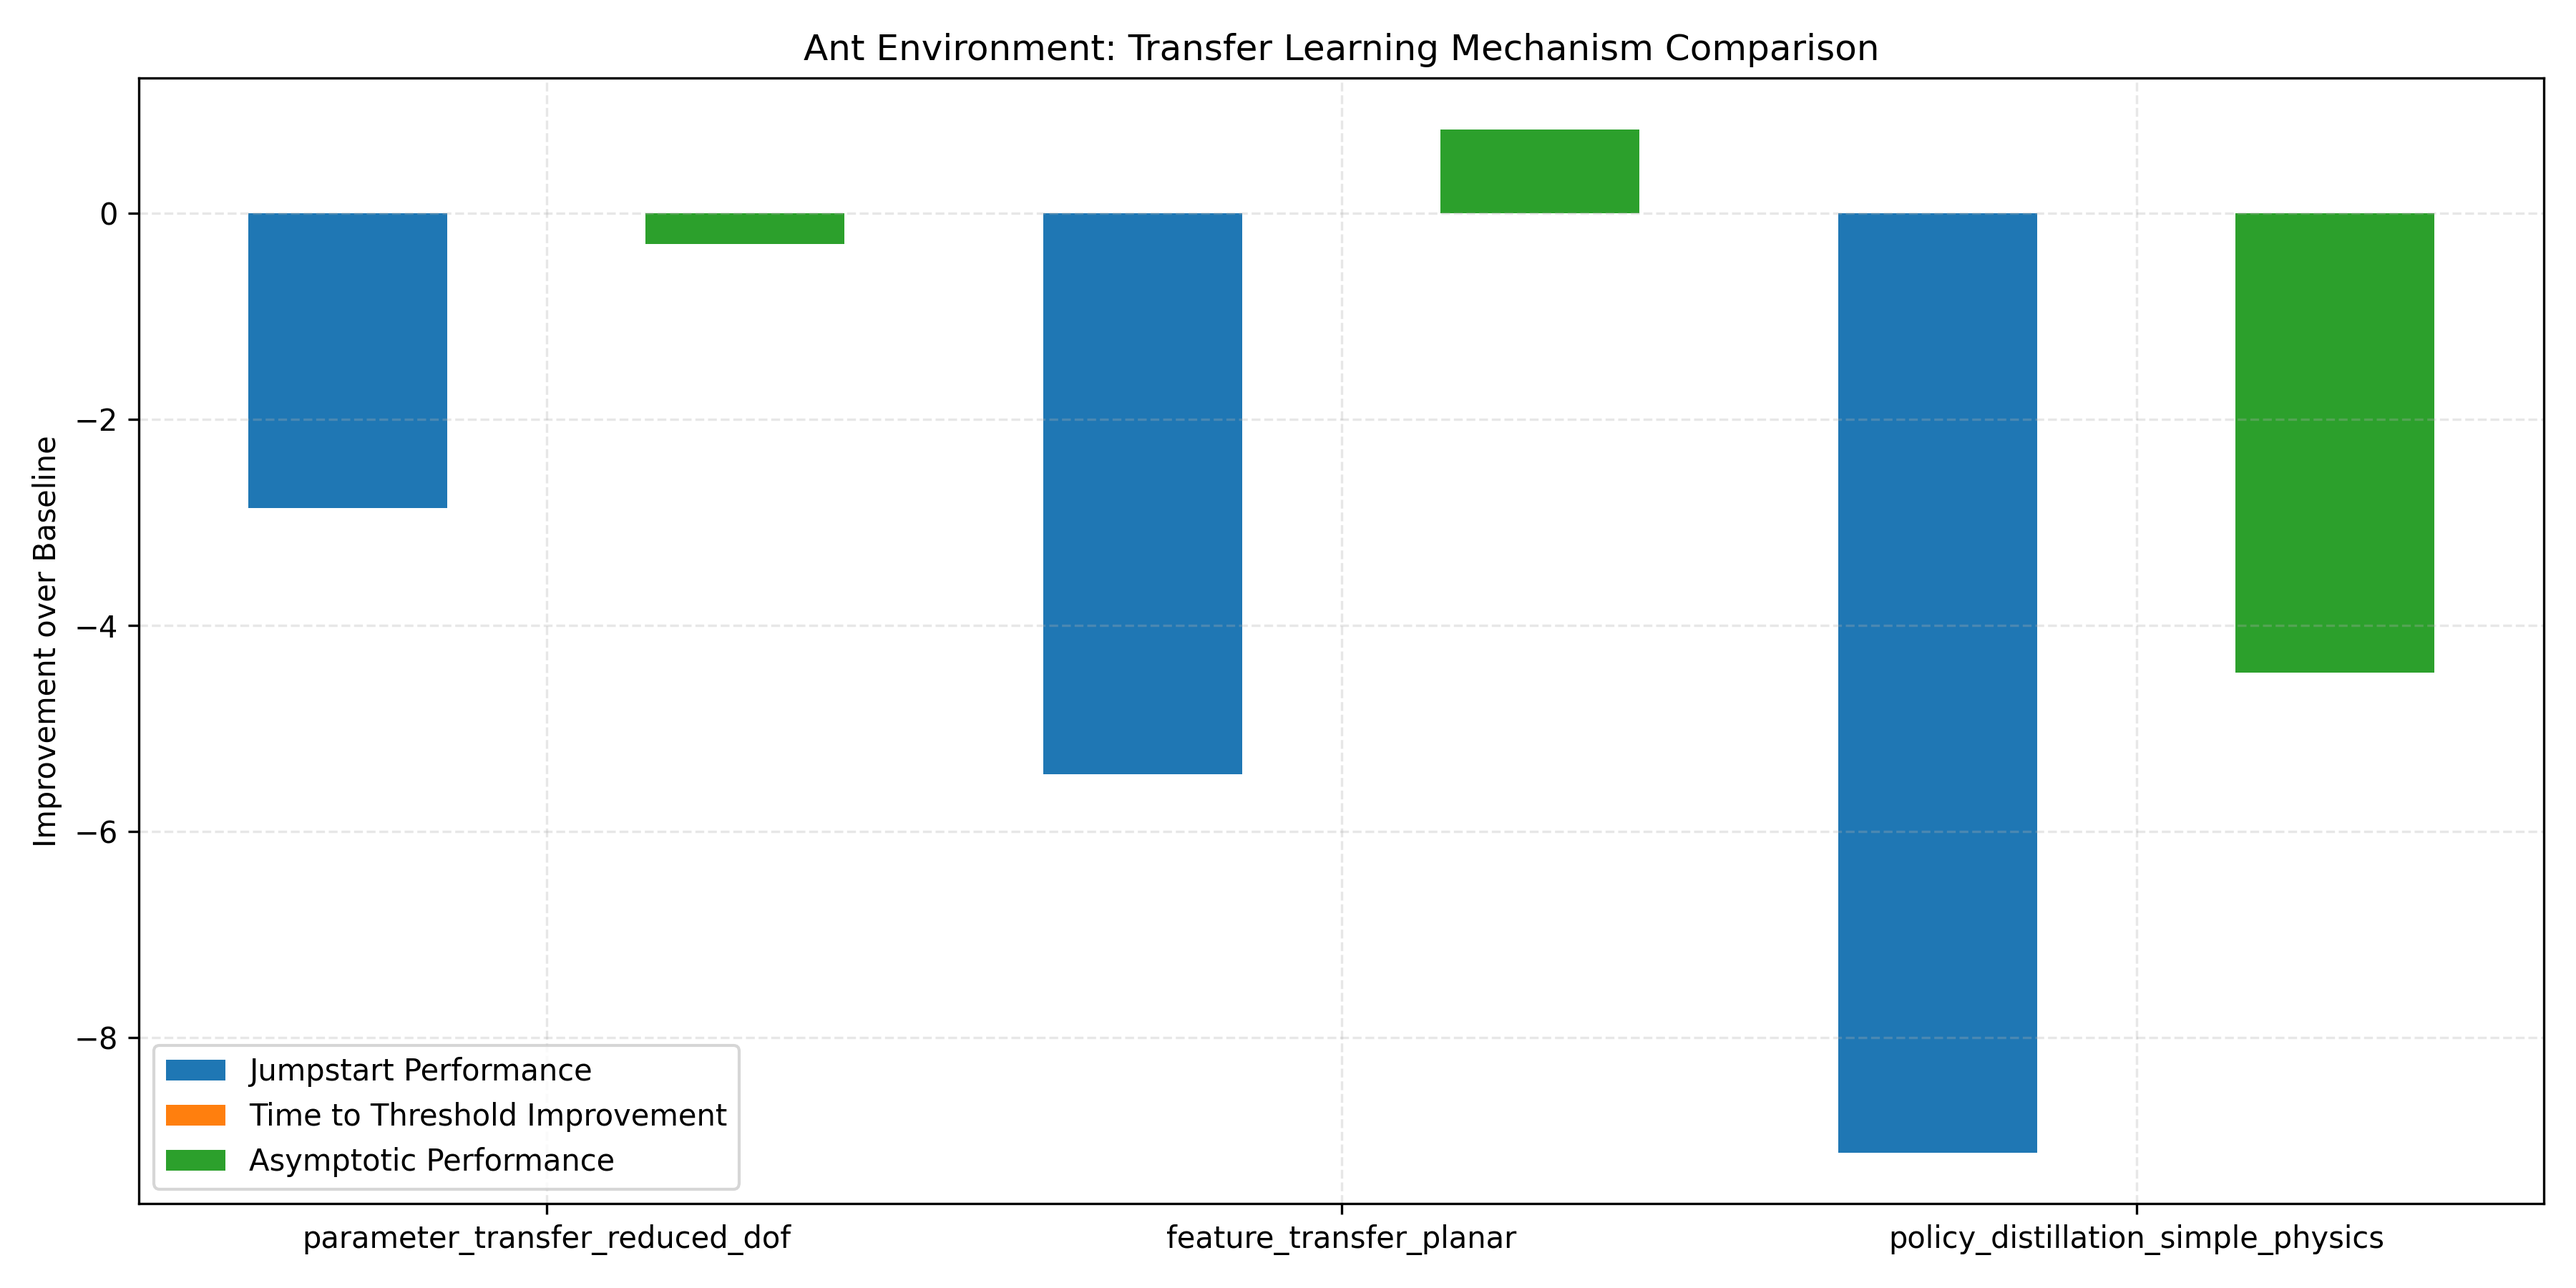
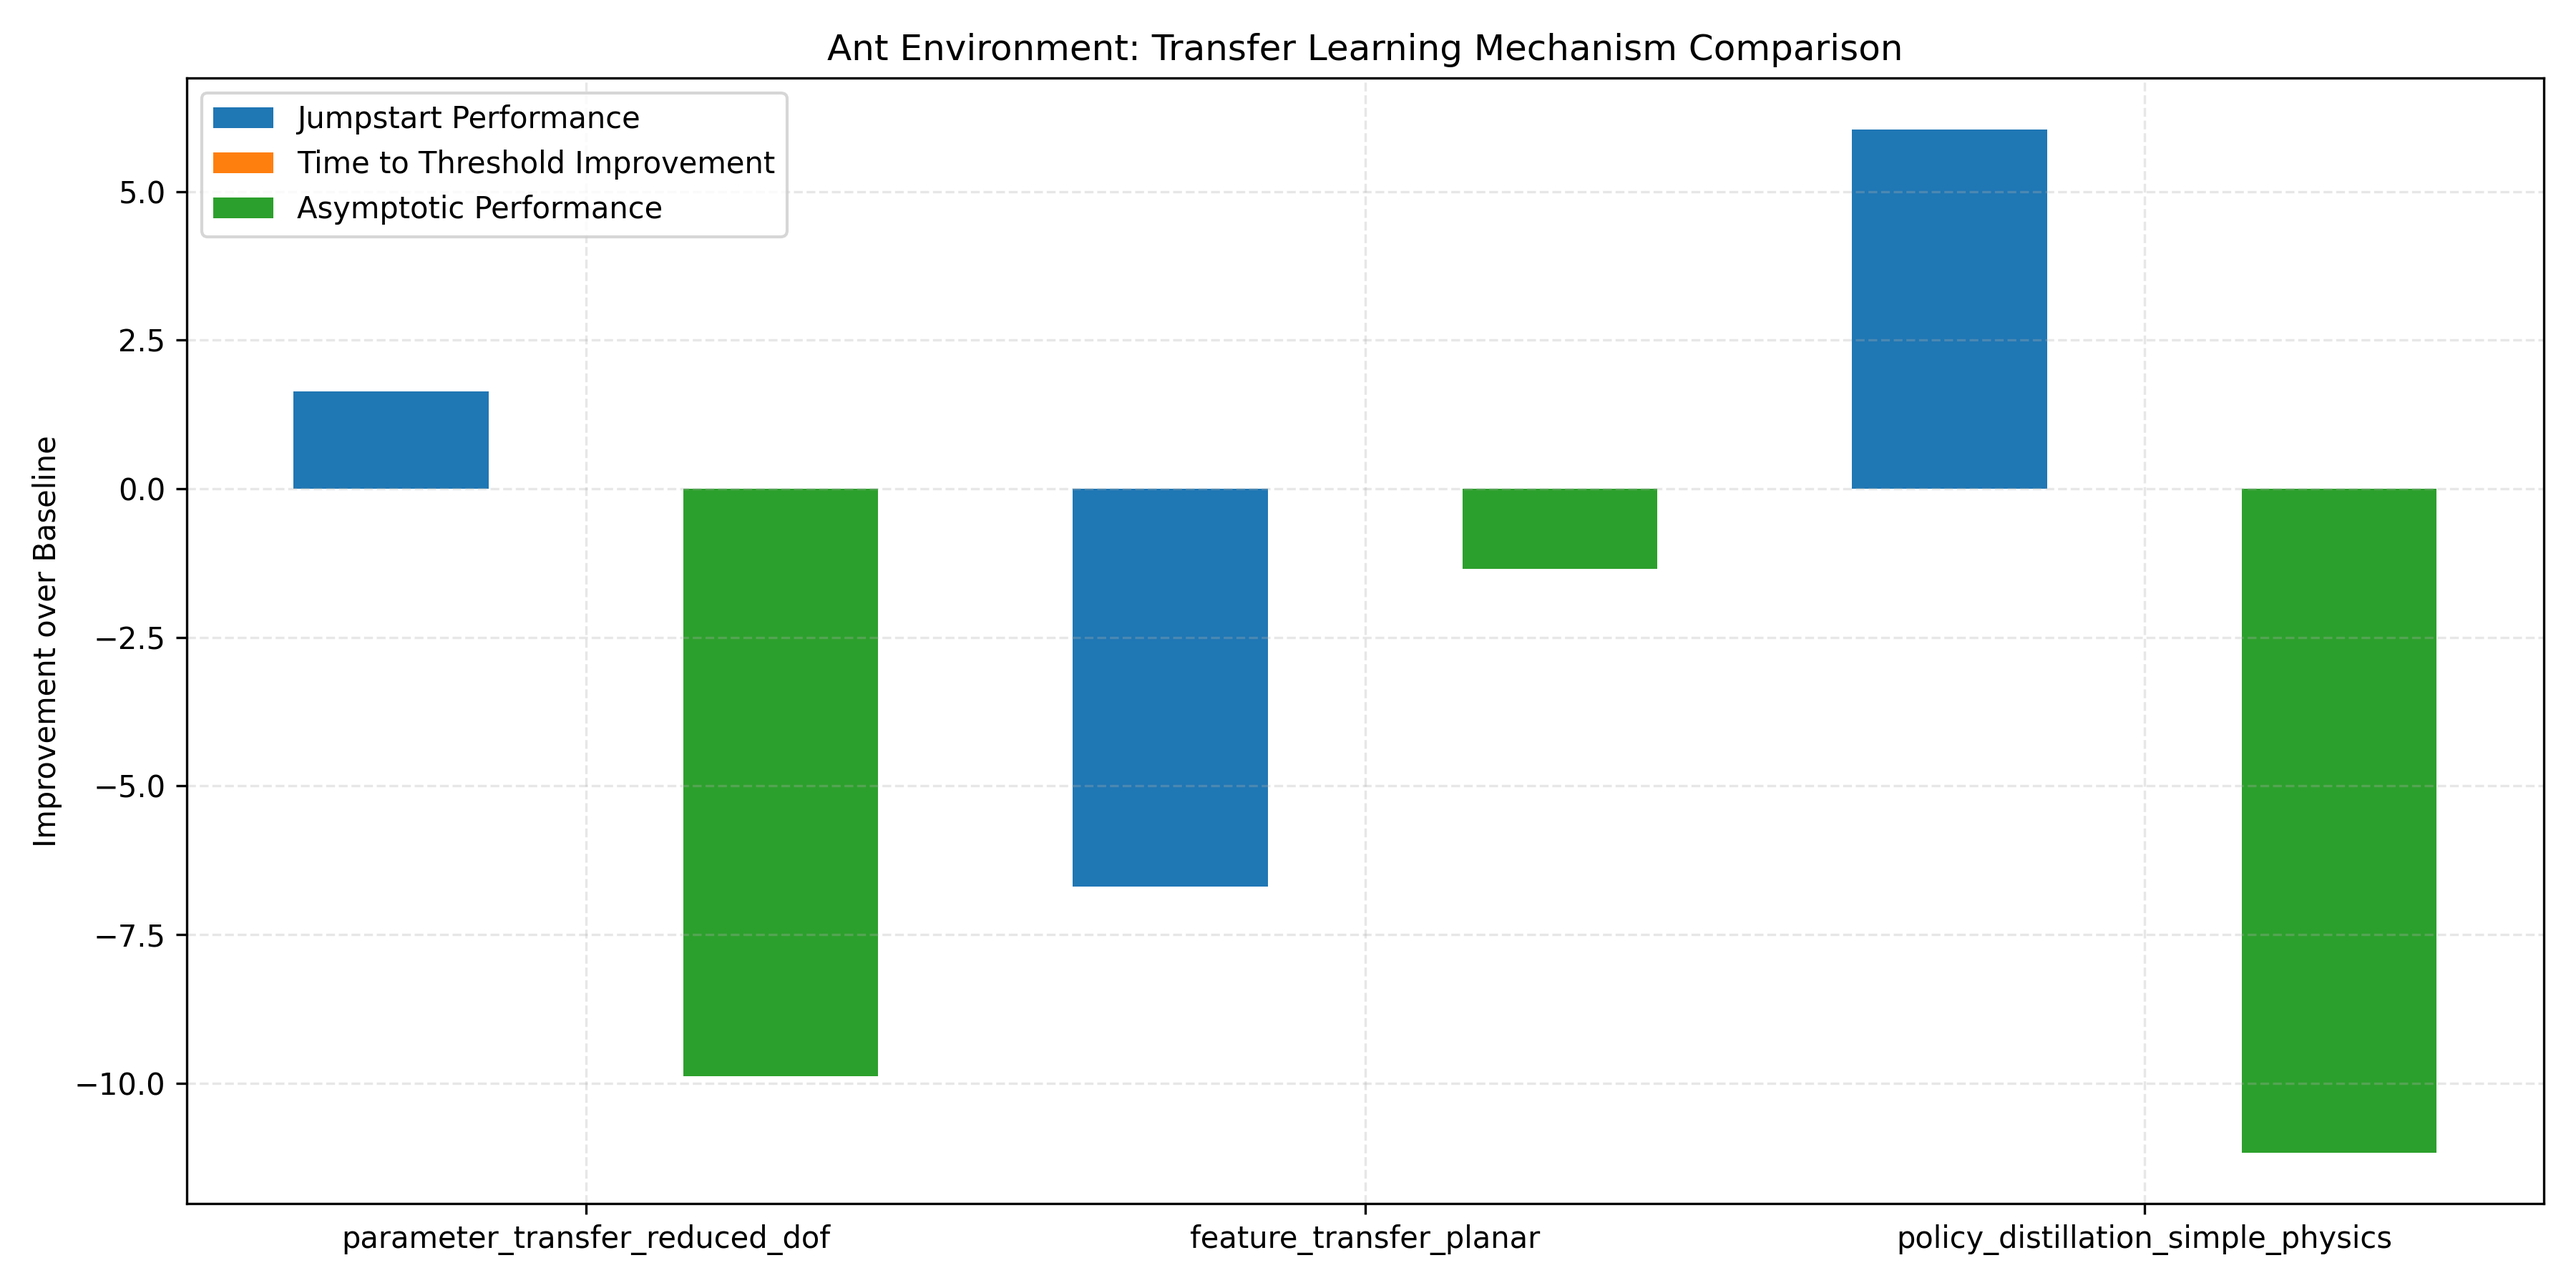
ant updates

diff --git a/transfer/mechanisms/policy_distillation.py b/transfer/mechanisms/policy_distillation.py
@@ -103,80 +103,38 @@ class PolicyDistillation:
     
     def _distill_policy(self, source_agent, target_agent, state_buffer):
         """Distill policy from source to target agent."""
-        print(f"Distilling policy over {self.iterations} iterations...")
+        # Ensure agents have policies and are in the right mode
+        if not hasattr(source_agent, 'actor') or not hasattr(target_agent, 'actor'):
+            raise ValueError("Both agents must have actor networks for distillation")
         
-        # Set agents to evaluation mode during distillation
-        source_agent.training = False
-        target_agent.training = True
+        # Set source to evaluation mode, target to training
+        source_agent.actor.eval()
+        target_agent.actor.train()
         
         # Get optimizer for target policy
-        optimizer = optim.Adam(target_agent.policy.parameters(), lr=self.learning_rate)
+        optimizer = optim.Adam(target_agent.actor.parameters(), lr=self.learning_rate)
         
         # Distillation loop
         for iteration in range(self.iterations):
             # Sample batch of states
-            if len(state_buffer) <= self.batch_size:
-                batch_states = state_buffer
-            else:
-                batch_indices = np.random.choice(len(state_buffer), self.batch_size, replace=False)
-                batch_states = [state_buffer[i] for i in batch_indices]
+            batch_indices = np.random.choice(len(state_buffer), 
+                                            min(self.batch_size, len(state_buffer)), 
+                                            replace=False)
+            batch_states = [state_buffer[i] for i in batch_indices]
             
             # Convert states to tensor
             states_tensor = torch.FloatTensor(np.array(batch_states)).to(self.device)
             
             # Get source policy outputs
             with torch.no_grad():
-                if hasattr(source_agent.policy, 'sample_action'):
-                    # For stochastic policies like in Actor-Critic
-                    source_actions, _ = source_agent.policy.sample_action(states_tensor)
-                    # For policy distillation we want means, not samples
-                    source_means, source_log_stds = source_agent.policy(states_tensor)
-                elif hasattr(source_agent.policy, 'forward'):
-                    # Simpler case for deterministic policies
-                    source_means = source_agent.policy(states_tensor)
-                    source_log_stds = None
-                else:
-                    print("Warning: Source policy doesn't have expected methods. Distillation may not work.")
-                    break
-            
+                source_means, source_log_stds = source_agent.actor(states_tensor)
+                
             # Get target policy outputs
-            if hasattr(target_agent.policy, 'sample_action'):
-                target_means, target_log_stds = target_agent.policy(states_tensor)
-            elif hasattr(target_agent.policy, 'forward'):
-                target_means = target_agent.policy(states_tensor)
-                target_log_stds = None
-            else:
-                print("Warning: Target policy doesn't have expected methods. Distillation may not work.")
-                break
+            target_means, target_log_stds = target_agent.actor(states_tensor)
             
-            # Calculate distillation loss
-            if self.loss_type == "mse":
-                # Simple mean squared error between means
-                loss = F.mse_loss(target_means, source_means)
-                
-                # Add log_std loss if available
-                if source_log_stds is not None and target_log_stds is not None:
-                    loss += F.mse_loss(target_log_stds, source_log_stds)
-                
-            elif self.loss_type == "kl":
-                # KL divergence between distributions (for stochastic policies)
-                if source_log_stds is not None and target_log_stds is not None:
-                    source_std = torch.exp(source_log_stds)
-                    target_std = torch.exp(target_log_stds)
-                    
-                    # KL divergence between two Gaussians
-                    kl_div = (source_log_stds - target_log_stds + 
-                             (target_std.pow(2) + (target_means - source_means).pow(2)) / 
-                             (2.0 * source_std.pow(2)) - 0.5)
-                    
-                    loss = kl_div.mean()
-                else:
-                    # Fall back to MSE if log_stds not available
-                    loss = F.mse_loss(target_means, source_means)
-            
-            else:
-                # Default to MSE
-                loss = F.mse_loss(target_means, source_means)
+            # Calculate distillation loss - KL divergence
+            loss = self._compute_kl_divergence(source_means, source_log_stds,
+                                            target_means, target_log_stds)
             
             # Update target policy
             optimizer.zero_grad()
@@ -184,8 +142,8 @@ class PolicyDistillation:
             optimizer.step()
             
             # Log progress
-            if (iteration + 1) % (self.iterations // 10) == 0:
-                print(f"  Distillation iteration {iteration + 1}/{self.iterations}, Loss: {loss.item():.6f}")
+            if (iteration + 1) % 100 == 0:
+                print(f"Distillation iteration {iteration+1}/{self.iterations}, Loss: {loss.item():.6f}")
         
         # Set agents back to original modes
         source_agent.training = False

diff --git a/environments/continuous/ant.py b/environments/continuous/ant.py
@@ -122,6 +122,49 @@ class AntEnv(BaseEnvironment):
         
         return forward_reward - control_cost + goal_reward
     
+    def create_state_mapping(self, source_agent, target_agent):
+        """Create mapping between source and target state spaces."""
+        # Extract dimensions from both observation spaces
+        source_dims = source_agent.obs_dim
+        target_dims = target_agent.obs_dim
+        
+        # Initialize mapping dictionary
+        mapping = {}
+        
+        # For Ant environments specifically, we need to map the observation
+        # components based on their semantic meaning
+        
+        # Define semantic segments of the observation vector
+        segments = {
+            'position': {'source_range': (0, min(3, source_dims)), 
+                        'target_range': (0, min(3, target_dims))},
+                        
+            'orientation': {'source_range': (3, min(7, source_dims)), 
+                        'target_range': (3, min(7, target_dims))},
+                        
+            'joint_positions': {'source_range': (7, min(15, source_dims)), 
+                            'target_range': (7, min(15, target_dims))},
+                            
+            'velocities': {'source_range': (15, min(23, source_dims)), 
+                        'target_range': (15, min(23, target_dims))}
+        }
+        
+        # Create mapping for each segment
+        for segment, ranges in segments.items():
+            s_start, s_end = ranges['source_range']
+            t_start, t_end = ranges['target_range']
+            
+            # Skip if source doesn't have this segment
+            if s_start >= source_dims:
+                continue
+                
+            # Map available dimensions
+            shared_length = min(s_end - s_start, t_end - t_start)
+            for i in range(shared_length):
+                mapping[s_start + i] = t_start + i
+        
+        return mapping
+        
     def get_state_representation(self):
         """Get the state representation suitable for transfer learning.
         
